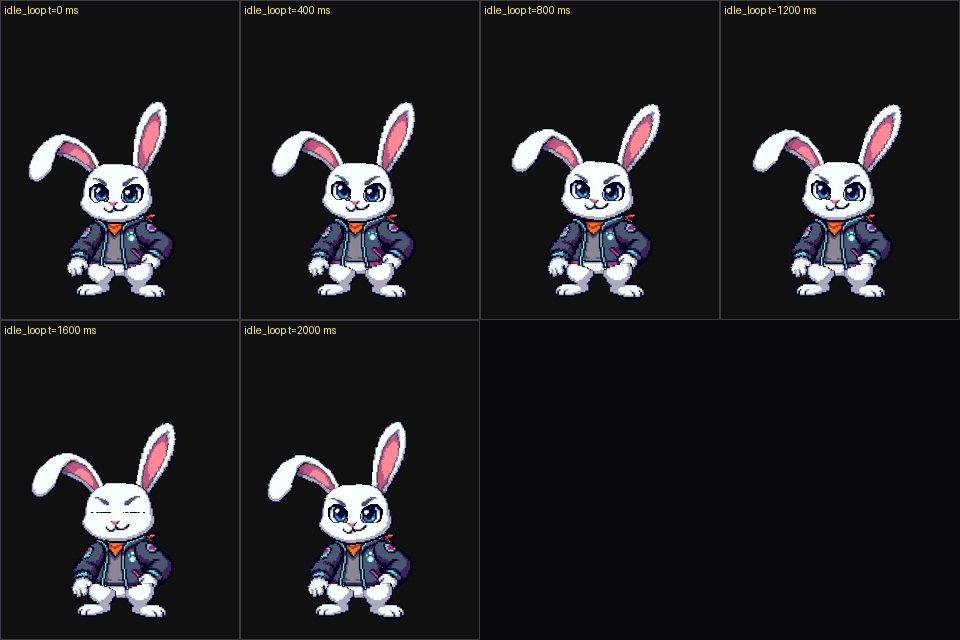
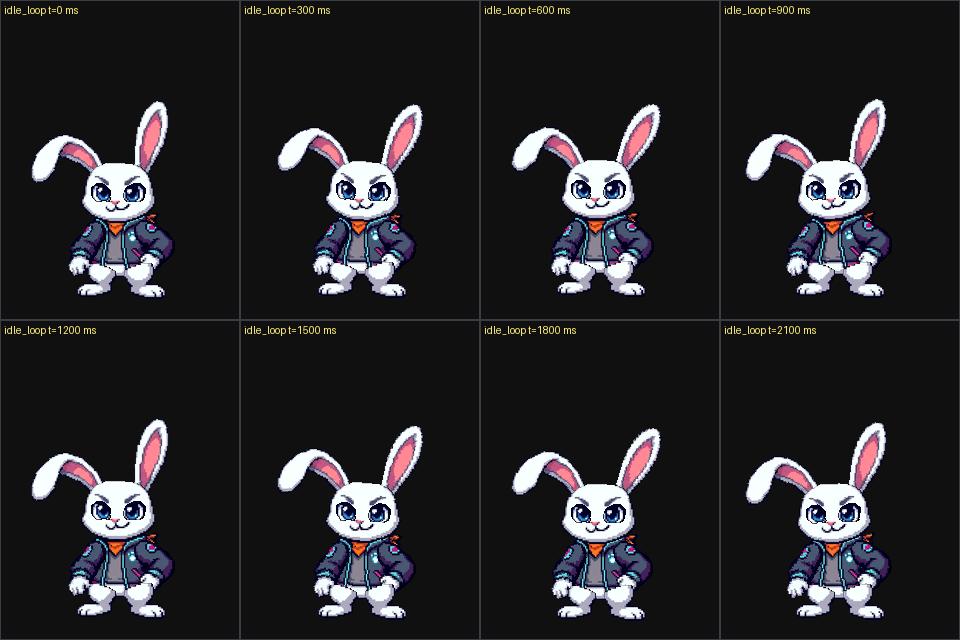
Use idle_loop animation for the README front-page demo
Regenerate docs/img/rabbit3_idle.png and make it the hero image (was peek)

diff --git a/README.md b/README.md
@@ -4,11 +4,11 @@ Public demo of **bone animation** (skeleton + cut-out parts) for Intellar-Engine
 a **rabbit3** pixel-art character, rigged and animated, played on the **ILI9341
 240x320** panel (the portrait format of the robot).
 
-![Contact sheet of the peek animation](docs/img/rabbit3_peek.png)
+![Contact sheet of the idle_loop animation](docs/img/rabbit3_idle.png)
 
-*`peek`: the rabbit is off-frame, springs out, looks left then right, hops in
-place and dives back. Frames rendered from the `assets/rabbit3.iska` binary by
-`tools/iska_preview.py`.*
+*`idle_loop`: breathing + a wind balance, with a blink and ears that trail the
+sway -- 2.4 s, loops seamlessly. Frames rendered from the `assets/rabbit3.iska`
+binary by `tools/iska_preview.py`.*
 
 | | |
 | :--- | :--- |
